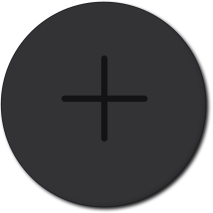
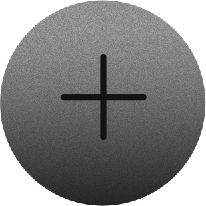
更新图片

diff --git a/Innway/InAddDevice/InSelectionViewController.m b/Innway/InAddDevice/InSelectionViewController.m
@@ -31,11 +31,10 @@
 - (void)viewDidLoad {
     [super viewDidLoad];
     self.arr = @[
-//  @{@"image": @"tag", @"title": @"Innway Tag"},
+                 @{@"image": @"tag", @"title": @"Innway Tag"},
                  @{@"image": @"chip", @"title": @"Innway Chip"},
                  @{@"image": @"Card", @"title": @"Innway Card"},
-                 @{@"image": @"cardHolder", @"title": @"Innway Card Holder"},
-                 @{@"image": @"tag", @"title": @"Innway Tag"}];
+                 @{@"image": @"cardHolder", @"title": @"Innway Card Holder"}];
     [self.tableView registerClass:[UITableViewCell class] forCellReuseIdentifier:@"UITableViewCell"];
     [self.navigationController.navigationBar setHidden:NO];
     [InCommon setNavgationBar:self.navigationController.navigationBar];
@@ -83,16 +82,16 @@
     common.deviceType = indexPath.row;
     switch (indexPath.row) {
         case 0:
-            common.deviceType = InDeviceChip;
+            common.deviceType = InDeviceTag;
             break;
         case 1:
-            common.deviceType = InDeviceCard;
+            common.deviceType = InDeviceChip;
             break;
         case 2:
-            common.deviceType = InDeviceCardHolder;
+            common.deviceType = InDeviceCard;
             break;
         case 3:
-            common.deviceType = InDeviceTag;
+            common.deviceType = InDeviceCardHolder;
             break;
         default:
             break;

diff --git a/Innway/InTool/InCommon.m b/Innway/InTool/InCommon.m
@@ -615,7 +615,7 @@
     else if ([peripheral.name isEqualToString:@"Innway Tag"]) {
         deviceType = InDeviceTag;
     }
-    else if ([peripheral.name isEqualToString:@"Innway Chip Holder"]) {
+    else if ([peripheral.name isEqualToString:@"Innway Card Holder"]) {
         deviceType = InDeviceCardHolder;
     }
     return deviceType;
@@ -700,7 +700,7 @@
 }
 
 + (UIColor *)backgroundColor {
-    return [UIColor blackColor];
+    return [UIColor colorWithRed:58.0/255.0 green:58.0/255.0 blue:58.0/255.0 alpha:1];
 }
 
 #pragma mark - 后台任务
